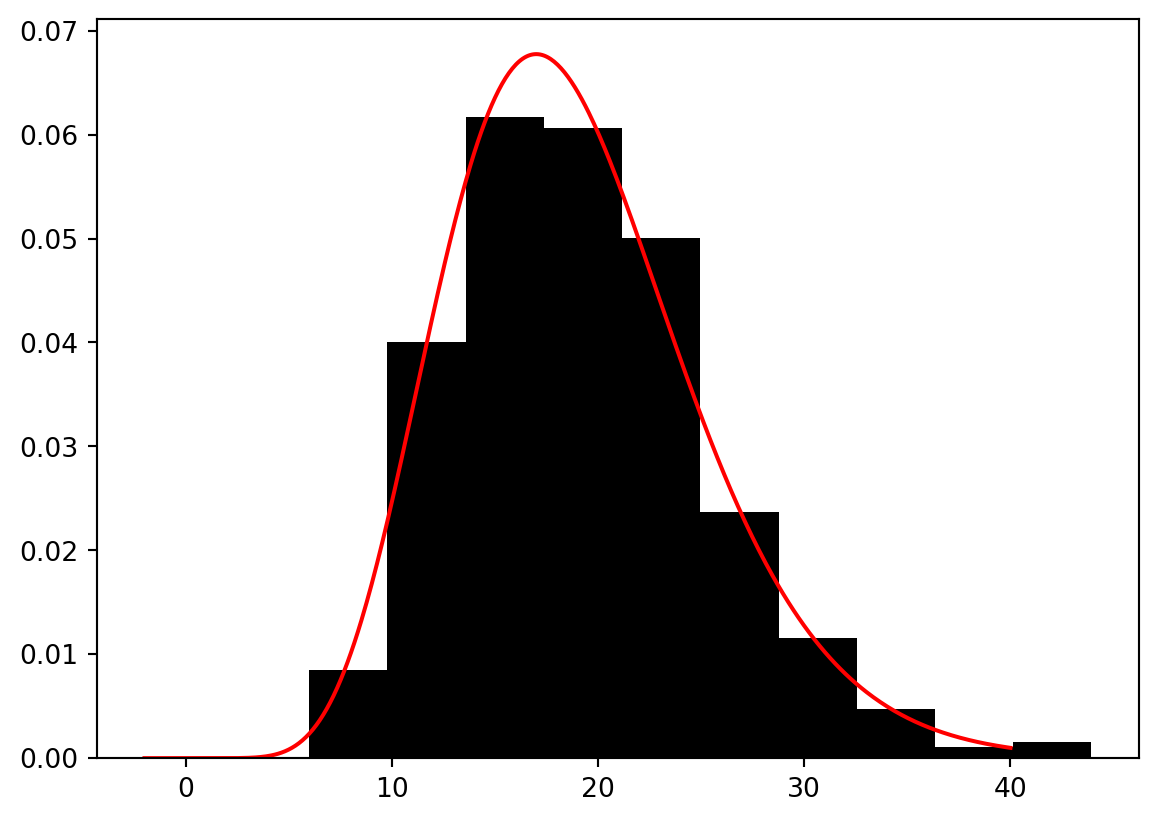
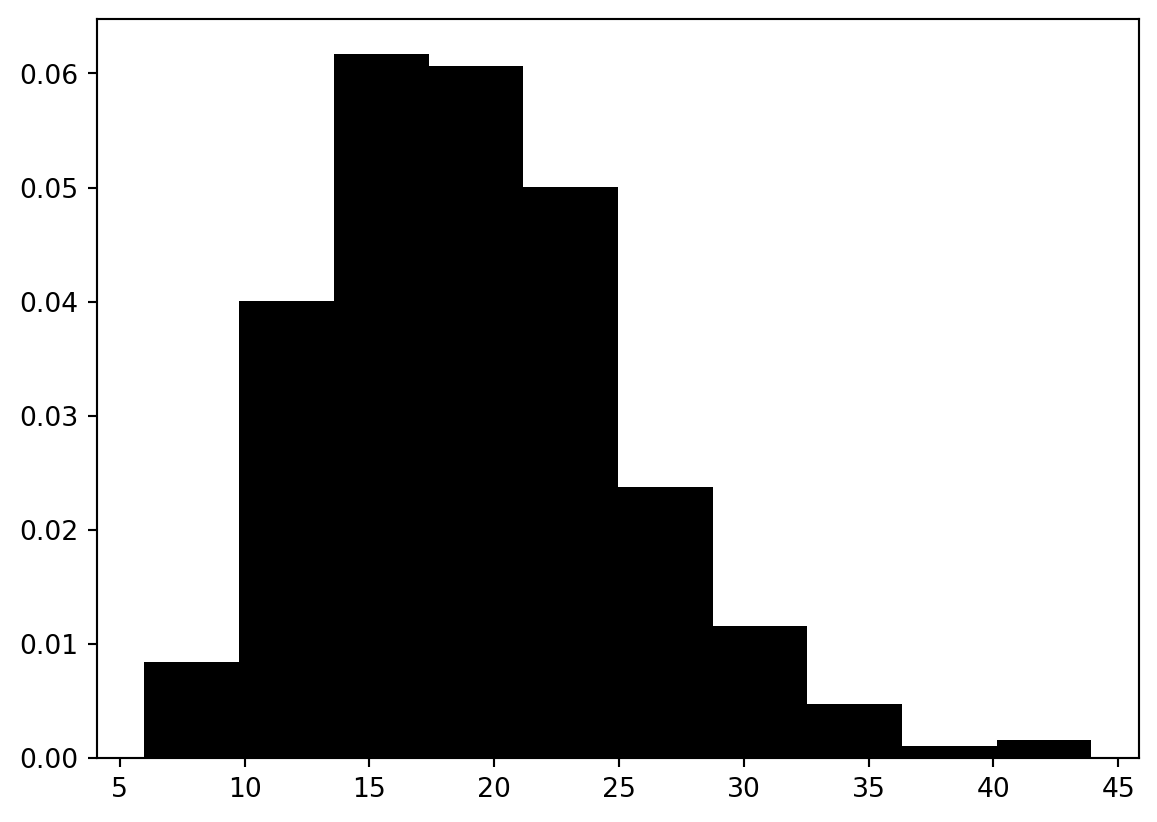
hw8 수정

diff --git a/docs/posts/hw8/hw8.html b/docs/posts/hw8/hw8.html
@@ -195,7 +195,7 @@ pre > code.sourceCode > span > a:first-child::before { text-decoration: underlin
 <section id="adp-표본점수" class="level1">
 <h1>ADP 표본점수</h1>
 <p>2022년에 실시 된 ADP 실기 시험의 통계파트 표준점수는 평균이 30, 표준편차가 5인 정규분포를 따른다고 한다. 1) ADP 실기 시험의 통계파트 표준점수의 밀도함수를 그려보세요.</p>
-<div id="2329b195" class="cell" data-execution_count="1">
+<div id="3515b512" class="cell" data-execution_count="1">
 <div class="sourceCode cell-code" id="cb1"><pre class="sourceCode python code-with-copy"><code class="sourceCode python"><span id="cb1-1"><a href="#cb1-1" aria-hidden="true" tabindex="-1"></a><span class="im">import</span> numpy <span class="im">as</span> np</span>
 <span id="cb1-2"><a href="#cb1-2" aria-hidden="true" tabindex="-1"></a><span class="im">from</span> scipy.stats <span class="im">import</span> norm</span>
 <span id="cb1-3"><a href="#cb1-3" aria-hidden="true" tabindex="-1"></a><span class="im">import</span> matplotlib.pyplot <span class="im">as</span> plt</span>
@@ -214,9 +214,9 @@ pre > code.sourceCode > span > a:first-child::before { text-decoration: underlin
 <ol start="2" type="1">
 <li>ADP 수험생을 임의로 1명을 선택하여 통계 점수를 조회했을때 45점 보다 높은 점수를 받았을 확률을 구하세요.</li>
 </ol>
-<div id="7f933099" class="cell" data-execution_count="2">
+<div id="15497b11" class="cell" data-execution_count="2">
 <div class="sourceCode cell-code" id="cb2"><pre class="sourceCode python code-with-copy"><code class="sourceCode python"><span id="cb2-1"><a href="#cb2-1" aria-hidden="true" tabindex="-1"></a><span class="dv">1</span> <span class="op">-</span> norm.cdf(<span class="dv">45</span>, <span class="dv">30</span>, <span class="dv">5</span>)</span></code><button title="Copy to Clipboard" class="code-copy-button"><i class="bi"></i></button></pre></div>
-<div class="cell-output cell-output-display" data-execution_count="18">
+<div class="cell-output cell-output-display" data-execution_count="2">
 <pre><code>np.float64(0.0013498980316301035)</code></pre>
 </div>
 </div>
@@ -224,9 +224,9 @@ pre > code.sourceCode > span > a:first-child::before { text-decoration: underlin
 <ol start="3" type="1">
 <li>슬통이는 상위 10%에 해당하는 점수를 얻었다고 한다면, 슬통이의 점수는 얼마인지 계산해보세요.</li>
 </ol>
-<div id="0004566b" class="cell" data-execution_count="3">
+<div id="8be3c6d6" class="cell" data-execution_count="3">
 <div class="sourceCode cell-code" id="cb4"><pre class="sourceCode python code-with-copy"><code class="sourceCode python"><span id="cb4-1"><a href="#cb4-1" aria-hidden="true" tabindex="-1"></a>norm.ppf(<span class="fl">0.9</span>, <span class="dv">30</span>, <span class="dv">5</span>)</span></code><button title="Copy to Clipboard" class="code-copy-button"><i class="bi"></i></button></pre></div>
-<div class="cell-output cell-output-display" data-execution_count="19">
+<div class="cell-output cell-output-display" data-execution_count="3">
 <pre><code>np.float64(36.407757827723)</code></pre>
 </div>
 </div>
@@ -234,7 +234,7 @@ pre > code.sourceCode > span > a:first-child::before { text-decoration: underlin
 <ol start="4" type="1">
 <li>슬기로운 통계생활의 해당 회차 수강생은 16명이었다고 한다. 16명의 통계 파트 점수를 평균내었을 때, 이 평균값이 따르는 분포의 확률밀도 함수를 1번의 그래프와 겹쳐 그려보세요.</li>
 </ol>
-<div id="766ef283" class="cell" data-execution_count="4">
+<div id="b1ad7a64" class="cell" data-execution_count="4">
 <div class="sourceCode cell-code" id="cb6"><pre class="sourceCode python code-with-copy"><code class="sourceCode python"><span id="cb6-1"><a href="#cb6-1" aria-hidden="true" tabindex="-1"></a>x <span class="op">=</span> np.linspace(<span class="dv">15</span>, <span class="dv">45</span>, <span class="dv">500</span>)</span>
 <span id="cb6-2"><a href="#cb6-2" aria-hidden="true" tabindex="-1"></a>y <span class="op">=</span> norm.pdf(x, loc<span class="op">=</span><span class="dv">30</span>, scale<span class="op">=</span><span class="dv">5</span>)</span>
 <span id="cb6-3"><a href="#cb6-3" aria-hidden="true" tabindex="-1"></a>plt.plot(x, y) </span>
@@ -252,9 +252,9 @@ pre > code.sourceCode > span > a:first-child::before { text-decoration: underlin
 <ol start="5" type="1">
 <li>슬기로운 통계생활 ADP 반 수강생들의 통계점수를 평균내었다고 할 때, 이 값이 38점보다 높게 나올 확률을 구하세요.</li>
 </ol>
-<div id="37366679" class="cell" data-execution_count="5">
+<div id="3b895eb0" class="cell" data-execution_count="5">
 <div class="sourceCode cell-code" id="cb7"><pre class="sourceCode python code-with-copy"><code class="sourceCode python"><span id="cb7-1"><a href="#cb7-1" aria-hidden="true" tabindex="-1"></a><span class="dv">1</span><span class="op">-</span>norm.cdf(<span class="dv">38</span>, loc<span class="op">=</span><span class="dv">30</span>, scale<span class="op">=</span><span class="dv">5</span><span class="op">/</span>np.sqrt(<span class="dv">16</span>))</span></code><button title="Copy to Clipboard" class="code-copy-button"><i class="bi"></i></button></pre></div>
-<div class="cell-output cell-output-display" data-execution_count="21">
+<div class="cell-output cell-output-display" data-execution_count="5">
 <pre><code>np.float64(7.76885222819601e-11)</code></pre>
 </div>
 </div>
@@ -266,22 +266,27 @@ pre > code.sourceCode > span > a:first-child::before { text-decoration: underlin
 <ol type="1">
 <li>다잡아 키트가 코로나 바이러스에 걸린 사람을 양성으로 잡아낼 확률을 계산하세요.</li>
 </ol>
-<div id="ddb7b09c" class="cell" data-execution_count="6">
+<div id="9d71c4e4" class="cell" data-execution_count="6">
 <div class="sourceCode cell-code" id="cb9"><pre class="sourceCode python code-with-copy"><code class="sourceCode python"><span id="cb9-1"><a href="#cb9-1" aria-hidden="true" tabindex="-1"></a><span class="dv">370</span><span class="op">/</span><span class="dv">385</span></span></code><button title="Copy to Clipboard" class="code-copy-button"><i class="bi"></i></button></pre></div>
-<div class="cell-output cell-output-display" data-execution_count="22">
+<div class="cell-output cell-output-display" data-execution_count="6">
 <pre><code>0.961038961038961</code></pre>
 </div>
 </div>
 <ol start="2" type="1">
 <li>슬통 회사에서 다잡아 키트를 사용해 양성으로 나온 사람이 실제로는 코로나 바이러스에 걸려있을 확률을 97%라며, 키트의 우수성을 주장했다. 이 주장이 옳지 않은 이유를 서술하세요.</li>
 </ol>
-<p>표본으로 뽑힌 집단의 확률과 슬통회사에서 주장한 확률이 다르다.</p>
+<div id="a0e77f67" class="cell" data-execution_count="7">
+<div class="sourceCode cell-code" id="cb11"><pre class="sourceCode python code-with-copy"><code class="sourceCode python"><span id="cb11-1"><a href="#cb11-1" aria-hidden="true" tabindex="-1"></a><span class="dv">370</span><span class="op">/</span><span class="dv">380</span></span></code><button title="Copy to Clipboard" class="code-copy-button"><i class="bi"></i></button></pre></div>
+<div class="cell-output cell-output-display" data-execution_count="7">
+<pre><code>0.9736842105263158</code></pre>
+</div>
+</div>
 <ol start="3" type="1">
 <li>Covid‑19 발병률을 사용하여,키트의 결과값이 양성으로 나온 사람이 실제로 코로나 바이러스에 걸려있을 확률을 구하세요.</li>
 </ol>
-<div id="3d2eb66e" class="cell" data-execution_count="7">
-<div class="sourceCode cell-code" id="cb11"><pre class="sourceCode python code-with-copy"><code class="sourceCode python"><span id="cb11-1"><a href="#cb11-1" aria-hidden="true" tabindex="-1"></a>(<span class="fl">0.01</span><span class="op">*</span> (<span class="dv">370</span><span class="op">/</span><span class="dv">385</span>)) <span class="op">/</span> (<span class="fl">0.01</span> <span class="op">*</span> (<span class="dv">370</span><span class="op">/</span><span class="dv">385</span>) <span class="op">+</span> <span class="fl">0.99</span> <span class="op">*</span> (<span class="dv">10</span> <span class="op">/</span> <span class="dv">700</span>))</span></code><button title="Copy to Clipboard" class="code-copy-button"><i class="bi"></i></button></pre></div>
-<div class="cell-output cell-output-display" data-execution_count="23">
+<div id="de30e2db" class="cell" data-execution_count="8">
+<div class="sourceCode cell-code" id="cb13"><pre class="sourceCode python code-with-copy"><code class="sourceCode python"><span id="cb13-1"><a href="#cb13-1" aria-hidden="true" tabindex="-1"></a>(<span class="fl">0.01</span><span class="op">*</span> (<span class="dv">370</span><span class="op">/</span><span class="dv">385</span>)) <span class="op">/</span> (<span class="fl">0.01</span> <span class="op">*</span> (<span class="dv">370</span><span class="op">/</span><span class="dv">385</span>) <span class="op">+</span> <span class="fl">0.99</span> <span class="op">*</span> (<span class="dv">10</span> <span class="op">/</span> <span class="dv">700</span>))</span></code><button title="Copy to Clipboard" class="code-copy-button"><i class="bi"></i></button></pre></div>
+<div class="cell-output cell-output-display" data-execution_count="8">
 <pre><code>0.4045926735921268</code></pre>
 </div>
 </div>
@@ -291,17 +296,17 @@ pre > code.sourceCode > span > a:first-child::before { text-decoration: underlin
 <h1>카이제곱분포와 표본분산</h1>
 <p>자유도가 𝑘인 카이제곱분포를 따르는 확률변수 𝑋 를 𝑋 ∼ (𝜒^2)*(𝑘)과 같이 나타내고, 이 확률변수의 확률밀도함수는 다음과 같습니다.</p>
 <p>다음의 물음에 답하세요. 1) 자유도가 4인 카이제곱분포의 확률밀도함수를 그려보세요.</p>
-<div id="ae4bfa26" class="cell" data-execution_count="8">
-<div class="sourceCode cell-code" id="cb13"><pre class="sourceCode python code-with-copy"><code class="sourceCode python"><span id="cb13-1"><a href="#cb13-1" aria-hidden="true" tabindex="-1"></a><span class="im">from</span> scipy.stats <span class="im">import</span> chi2</span>
-<span id="cb13-2"><a href="#cb13-2" aria-hidden="true" tabindex="-1"></a><span class="im">import</span> matplotlib.pyplot <span class="im">as</span> plt</span>
-<span id="cb13-3"><a href="#cb13-3" aria-hidden="true" tabindex="-1"></a><span class="im">import</span> numpy <span class="im">as</span> np</span>
-<span id="cb13-4"><a href="#cb13-4" aria-hidden="true" tabindex="-1"></a>k<span class="op">=</span>np.linspace(<span class="op">-</span><span class="dv">2</span>, <span class="dv">40</span>, <span class="dv">500</span>)</span>
-<span id="cb13-5"><a href="#cb13-5" aria-hidden="true" tabindex="-1"></a>y<span class="op">=</span>chi2.pdf(k, df<span class="op">=</span><span class="dv">4</span>)</span>
-<span id="cb13-6"><a href="#cb13-6" aria-hidden="true" tabindex="-1"></a>plt.plot(k, y, color<span class="op">=</span> <span class="st">"black"</span>)</span></code><button title="Copy to Clipboard" class="code-copy-button"><i class="bi"></i></button></pre></div>
+<div id="05ce24cd" class="cell" data-execution_count="9">
+<div class="sourceCode cell-code" id="cb15"><pre class="sourceCode python code-with-copy"><code class="sourceCode python"><span id="cb15-1"><a href="#cb15-1" aria-hidden="true" tabindex="-1"></a><span class="im">from</span> scipy.stats <span class="im">import</span> chi2</span>
+<span id="cb15-2"><a href="#cb15-2" aria-hidden="true" tabindex="-1"></a><span class="im">import</span> matplotlib.pyplot <span class="im">as</span> plt</span>
+<span id="cb15-3"><a href="#cb15-3" aria-hidden="true" tabindex="-1"></a><span class="im">import</span> numpy <span class="im">as</span> np</span>
+<span id="cb15-4"><a href="#cb15-4" aria-hidden="true" tabindex="-1"></a>k<span class="op">=</span>np.linspace(<span class="op">-</span><span class="dv">2</span>, <span class="dv">40</span>, <span class="dv">500</span>)</span>
+<span id="cb15-5"><a href="#cb15-5" aria-hidden="true" tabindex="-1"></a>y<span class="op">=</span>chi2.pdf(k, df<span class="op">=</span><span class="dv">4</span>)</span>
+<span id="cb15-6"><a href="#cb15-6" aria-hidden="true" tabindex="-1"></a>plt.plot(k, y, color<span class="op">=</span> <span class="st">"black"</span>)</span></code><button title="Copy to Clipboard" class="code-copy-button"><i class="bi"></i></button></pre></div>
 <div class="cell-output cell-output-display">
 <div>
 <figure class="figure">
-<p><img src="hw8_files/figure-html/cell-9-output-1.png" width="587" height="411" class="figure-img"></p>
+<p><img src="hw8_files/figure-html/cell-10-output-1.png" width="587" height="411" class="figure-img"></p>
 </figure>
 </div>
 </div>
@@ -309,26 +314,26 @@ pre > code.sourceCode > span > a:first-child::before { text-decoration: underlin
 <ol start="2" type="1">
 <li>다음의 확률을 구해보세요. 𝑃 (3 ≤ 𝑋 ≤ 5)</li>
 </ol>
-<div id="716f1e83" class="cell" data-execution_count="9">
-<div class="sourceCode cell-code" id="cb14"><pre class="sourceCode python code-with-copy"><code class="sourceCode python"><span id="cb14-1"><a href="#cb14-1" aria-hidden="true" tabindex="-1"></a>chi2.cdf(<span class="dv">5</span>, <span class="dv">4</span>) <span class="op">-</span> chi2.cdf(<span class="dv">3</span>, <span class="dv">4</span>)</span></code><button title="Copy to Clipboard" class="code-copy-button"><i class="bi"></i></button></pre></div>
-<div class="cell-output cell-output-display" data-execution_count="25">
+<div id="e89ae2a6" class="cell" data-execution_count="10">
+<div class="sourceCode cell-code" id="cb16"><pre class="sourceCode python code-with-copy"><code class="sourceCode python"><span id="cb16-1"><a href="#cb16-1" aria-hidden="true" tabindex="-1"></a>chi2.cdf(<span class="dv">5</span>, <span class="dv">4</span>) <span class="op">-</span> chi2.cdf(<span class="dv">3</span>, <span class="dv">4</span>)</span></code><button title="Copy to Clipboard" class="code-copy-button"><i class="bi"></i></button></pre></div>
+<div class="cell-output cell-output-display" data-execution_count="10">
 <pre><code>np.float64(0.27052790518742903)</code></pre>
 </div>
 </div>
 <ol start="3" type="1">
 <li>자유도가 4인 카이제곱분포에서 크기가 1000인 표본을 뽑은 후, 히스토그램을 그려보세요.</li>
 </ol>
-<div id="33adcfd7" class="cell" data-execution_count="10">
-<div class="sourceCode cell-code" id="cb16"><pre class="sourceCode python code-with-copy"><code class="sourceCode python"><span id="cb16-1"><a href="#cb16-1" aria-hidden="true" tabindex="-1"></a><span class="im">import</span> numpy <span class="im">as</span> np</span>
-<span id="cb16-2"><a href="#cb16-2" aria-hidden="true" tabindex="-1"></a>np.random.seed(<span class="dv">2024</span>)</span>
-<span id="cb16-3"><a href="#cb16-3" aria-hidden="true" tabindex="-1"></a><span class="co">#chi2.rvs(df, loc=0, scale=1, size=1, random_state=None)</span></span>
-<span id="cb16-4"><a href="#cb16-4" aria-hidden="true" tabindex="-1"></a>x <span class="op">=</span> chi2.rvs(<span class="dv">4</span>, loc<span class="op">=</span><span class="dv">0</span>, scale<span class="op">=</span><span class="dv">1</span>, size<span class="op">=</span><span class="dv">1000</span>)</span>
-<span id="cb16-5"><a href="#cb16-5" aria-hidden="true" tabindex="-1"></a>plt.hist(x, color <span class="op">=</span> <span class="st">"black"</span>,histtype<span class="op">=</span><span class="st">'bar'</span>)</span>
-<span id="cb16-6"><a href="#cb16-6" aria-hidden="true" tabindex="-1"></a>plt.figure()</span></code><button title="Copy to Clipboard" class="code-copy-button"><i class="bi"></i></button></pre></div>
+<div id="b675f9d3" class="cell" data-execution_count="11">
+<div class="sourceCode cell-code" id="cb18"><pre class="sourceCode python code-with-copy"><code class="sourceCode python"><span id="cb18-1"><a href="#cb18-1" aria-hidden="true" tabindex="-1"></a><span class="im">import</span> numpy <span class="im">as</span> np</span>
+<span id="cb18-2"><a href="#cb18-2" aria-hidden="true" tabindex="-1"></a>np.random.seed(<span class="dv">2024</span>)</span>
+<span id="cb18-3"><a href="#cb18-3" aria-hidden="true" tabindex="-1"></a><span class="co">#chi2.rvs(df, loc=0, scale=1, size=1, random_state=None)</span></span>
+<span id="cb18-4"><a href="#cb18-4" aria-hidden="true" tabindex="-1"></a>x <span class="op">=</span> chi2.rvs(<span class="dv">4</span>, loc<span class="op">=</span><span class="dv">0</span>, scale<span class="op">=</span><span class="dv">1</span>, size<span class="op">=</span><span class="dv">1000</span>)</span>
+<span id="cb18-5"><a href="#cb18-5" aria-hidden="true" tabindex="-1"></a>plt.hist(x, color <span class="op">=</span> <span class="st">"black"</span>,histtype<span class="op">=</span><span class="st">'bar'</span>)</span>
+<span id="cb18-6"><a href="#cb18-6" aria-hidden="true" tabindex="-1"></a>plt.figure()</span></code><button title="Copy to Clipboard" class="code-copy-button"><i class="bi"></i></button></pre></div>
 <div class="cell-output cell-output-display">
 <div>
 <figure class="figure">
-<p><img src="hw8_files/figure-html/cell-11-output-1.png" width="586" height="411" class="figure-img"></p>
+<p><img src="hw8_files/figure-html/cell-12-output-1.png" width="586" height="411" class="figure-img"></p>
 </figure>
 </div>
 </div>
@@ -339,11 +344,11 @@ pre > code.sourceCode > span > a:first-child::before { text-decoration: underlin
 <ol start="4" type="1">
 <li>자유도가 4인 카이제곱분포를 따르는 확률변수에서 나올 수 있는 값 중 상위 5%에 해당하는 값은 얼마인지 계산해보세요.</li>
 </ol>
-<div id="c1ac2596" class="cell" data-execution_count="11">
-<div class="sourceCode cell-code" id="cb18"><pre class="sourceCode python code-with-copy"><code class="sourceCode python"><span id="cb18-1"><a href="#cb18-1" aria-hidden="true" tabindex="-1"></a><span class="im">import</span> scipy.stats <span class="im">as</span> stats</span>
-<span id="cb18-2"><a href="#cb18-2" aria-hidden="true" tabindex="-1"></a>data <span class="op">=</span>stats.chi2(<span class="dv">4</span>, loc<span class="op">=</span><span class="dv">0</span>, scale<span class="op">=</span><span class="dv">1</span>)</span>
-<span id="cb18-3"><a href="#cb18-3" aria-hidden="true" tabindex="-1"></a>data.ppf(<span class="fl">0.95</span>) </span></code><button title="Copy to Clipboard" class="code-copy-button"><i class="bi"></i></button></pre></div>
-<div class="cell-output cell-output-display" data-execution_count="27">
+<div id="fa0a9e44" class="cell" data-execution_count="12">
+<div class="sourceCode cell-code" id="cb20"><pre class="sourceCode python code-with-copy"><code class="sourceCode python"><span id="cb20-1"><a href="#cb20-1" aria-hidden="true" tabindex="-1"></a><span class="im">import</span> scipy.stats <span class="im">as</span> stats</span>
+<span id="cb20-2"><a href="#cb20-2" aria-hidden="true" tabindex="-1"></a>data <span class="op">=</span>stats.chi2(<span class="dv">4</span>, loc<span class="op">=</span><span class="dv">0</span>, scale<span class="op">=</span><span class="dv">1</span>)</span>
+<span id="cb20-3"><a href="#cb20-3" aria-hidden="true" tabindex="-1"></a>data.ppf(<span class="fl">0.95</span>) </span></code><button title="Copy to Clipboard" class="code-copy-button"><i class="bi"></i></button></pre></div>
+<div class="cell-output cell-output-display" data-execution_count="12">
 <pre><code>np.float64(9.487729036781154)</code></pre>
 </div>
 </div>
@@ -351,9 +356,9 @@ pre > code.sourceCode > span > a:first-child::before { text-decoration: underlin
 <ol start="5" type="1">
 <li>3번에서 뽑힌 표본값들 중 상위 5%에 위치한 표본의 값은 얼마인가요?</li>
 </ol>
-<div id="aad885bb" class="cell" data-execution_count="12">
-<div class="sourceCode cell-code" id="cb20"><pre class="sourceCode python code-with-copy"><code class="sourceCode python"><span id="cb20-1"><a href="#cb20-1" aria-hidden="true" tabindex="-1"></a>np.percentile(x, <span class="dv">95</span>)</span></code><button title="Copy to Clipboard" class="code-copy-button"><i class="bi"></i></button></pre></div>
-<div class="cell-output cell-output-display" data-execution_count="28">
+<div id="a0160016" class="cell" data-execution_count="13">
+<div class="sourceCode cell-code" id="cb22"><pre class="sourceCode python code-with-copy"><code class="sourceCode python"><span id="cb22-1"><a href="#cb22-1" aria-hidden="true" tabindex="-1"></a>np.percentile(x, <span class="dv">95</span>)</span></code><button title="Copy to Clipboard" class="code-copy-button"><i class="bi"></i></button></pre></div>
+<div class="cell-output cell-output-display" data-execution_count="13">
 <pre><code>np.float64(10.006310615752485)</code></pre>
 </div>
 </div>
@@ -361,29 +366,29 @@ pre > code.sourceCode > span > a:first-child::before { text-decoration: underlin
 <ol start="6" type="1">
 <li>평균이 3, 표준편차가 2인 정규분포를 따르는 확률변수에서 크기가 20인 표본, 𝑥1, …, 𝑥20,을 뽑은 후 표본분산을 계산한 것을 𝑠1^2이라 생각해보죠. 다음을 수행해보세요!</li>
 </ol>
-<div id="1fb388bb" class="cell" data-execution_count="13">
-<div class="sourceCode cell-code" id="cb22"><pre class="sourceCode python code-with-copy"><code class="sourceCode python"><span id="cb22-1"><a href="#cb22-1" aria-hidden="true" tabindex="-1"></a><span class="im">from</span> scipy.stats <span class="im">import</span> norm</span>
-<span id="cb22-2"><a href="#cb22-2" aria-hidden="true" tabindex="-1"></a></span>
-<span id="cb22-3"><a href="#cb22-3" aria-hidden="true" tabindex="-1"></a>np.random.seed(<span class="dv">2024</span>)</span>
-<span id="cb22-4"><a href="#cb22-4" aria-hidden="true" tabindex="-1"></a>x <span class="op">=</span> norm.rvs(<span class="dv">3</span>, <span class="dv">2</span>, size<span class="op">=</span><span class="dv">20</span>)</span></code><button title="Copy to Clipboard" class="code-copy-button"><i class="bi"></i></button></pre></div>
+<div id="fec824b6" class="cell" data-execution_count="14">
+<div class="sourceCode cell-code" id="cb24"><pre class="sourceCode python code-with-copy"><code class="sourceCode python"><span id="cb24-1"><a href="#cb24-1" aria-hidden="true" tabindex="-1"></a><span class="im">from</span> scipy.stats <span class="im">import</span> norm</span>
+<span id="cb24-2"><a href="#cb24-2" aria-hidden="true" tabindex="-1"></a></span>
+<span id="cb24-3"><a href="#cb24-3" aria-hidden="true" tabindex="-1"></a>np.random.seed(<span class="dv">2024</span>)</span>
+<span id="cb24-4"><a href="#cb24-4" aria-hidden="true" tabindex="-1"></a>x <span class="op">=</span> norm.rvs(<span class="dv">3</span>, <span class="dv">2</span>, size<span class="op">=</span><span class="dv">20</span>)</span></code><button title="Copy to Clipboard" class="code-copy-button"><i class="bi"></i></button></pre></div>
 </div>
 <p>• 같은 방법으로 500개의 𝑠^2 들, 𝑠(1)^2, 𝑠(2)^2, …, 𝑠(500)^2 발생시킵니다.</p>
-<div id="01fa6235" class="cell" data-execution_count="14">
-<div class="sourceCode cell-code" id="cb23"><pre class="sourceCode python code-with-copy"><code class="sourceCode python"><span id="cb23-1"><a href="#cb23-1" aria-hidden="true" tabindex="-1"></a>samples<span class="op">=</span>[]</span>
-<span id="cb23-2"><a href="#cb23-2" aria-hidden="true" tabindex="-1"></a></span>
-<span id="cb23-3"><a href="#cb23-3" aria-hidden="true" tabindex="-1"></a><span class="cf">for</span> i <span class="kw">in</span> <span class="bu">range</span>(<span class="dv">500</span>):</span>
-<span id="cb23-4"><a href="#cb23-4" aria-hidden="true" tabindex="-1"></a>    x <span class="op">=</span> norm.rvs(<span class="dv">3</span>, <span class="dv">2</span>, size<span class="op">=</span><span class="dv">20</span>)</span>
-<span id="cb23-5"><a href="#cb23-5" aria-hidden="true" tabindex="-1"></a>    samples.append(np.var(x, ddof<span class="op">=</span><span class="dv">1</span>))</span></code><button title="Copy to Clipboard" class="code-copy-button"><i class="bi"></i></button></pre></div>
+<div id="d635acfb" class="cell" data-execution_count="15">
+<div class="sourceCode cell-code" id="cb25"><pre class="sourceCode python code-with-copy"><code class="sourceCode python"><span id="cb25-1"><a href="#cb25-1" aria-hidden="true" tabindex="-1"></a>samples<span class="op">=</span>[]</span>
+<span id="cb25-2"><a href="#cb25-2" aria-hidden="true" tabindex="-1"></a></span>
+<span id="cb25-3"><a href="#cb25-3" aria-hidden="true" tabindex="-1"></a><span class="cf">for</span> i <span class="kw">in</span> <span class="bu">range</span>(<span class="dv">500</span>):</span>
+<span id="cb25-4"><a href="#cb25-4" aria-hidden="true" tabindex="-1"></a>    x <span class="op">=</span> norm.rvs(<span class="dv">3</span>, <span class="dv">2</span>, size<span class="op">=</span><span class="dv">20</span>)</span>
+<span id="cb25-5"><a href="#cb25-5" aria-hidden="true" tabindex="-1"></a>    samples.append(np.var(x, ddof<span class="op">=</span><span class="dv">1</span>))</span></code><button title="Copy to Clipboard" class="code-copy-button"><i class="bi"></i></button></pre></div>
 </div>
 <p>• 발생한 500개의 𝑠^2 들 각각에 4.75를 곱하고, 그것들의 히스토그램을 그려보세요. (히스토그램을 그릴 때 probability = TRUE 옵션을 사용해서 그릴 것)</p>
-<div id="a26af5e3" class="cell" data-execution_count="15">
-<div class="sourceCode cell-code" id="cb24"><pre class="sourceCode python code-with-copy"><code class="sourceCode python"><span id="cb24-1"><a href="#cb24-1" aria-hidden="true" tabindex="-1"></a>new_samples <span class="op">=</span> np.array(samples) <span class="op">*</span> <span class="fl">4.75</span></span>
-<span id="cb24-2"><a href="#cb24-2" aria-hidden="true" tabindex="-1"></a>plt.hist(new_samples, density <span class="op">=</span> <span class="va">True</span>, color<span class="op">=</span><span class="st">"black"</span>)</span>
-<span id="cb24-3"><a href="#cb24-3" aria-hidden="true" tabindex="-1"></a>plt.figure()</span></code><button title="Copy to Clipboard" class="code-copy-button"><i class="bi"></i></button></pre></div>
+<div id="7d0fffda" class="cell" data-execution_count="16">
+<div class="sourceCode cell-code" id="cb26"><pre class="sourceCode python code-with-copy"><code class="sourceCode python"><span id="cb26-1"><a href="#cb26-1" aria-hidden="true" tabindex="-1"></a>new_samples <span class="op">=</span> np.array(samples) <span class="op">*</span> <span class="fl">4.75</span></span>
+<span id="cb26-2"><a href="#cb26-2" aria-hidden="true" tabindex="-1"></a>plt.hist(new_samples, density <span class="op">=</span> <span class="va">True</span>, color<span class="op">=</span><span class="st">"black"</span>)</span>
+<span id="cb26-3"><a href="#cb26-3" aria-hidden="true" tabindex="-1"></a>plt.figure()</span></code><button title="Copy to Clipboard" class="code-copy-button"><i class="bi"></i></button></pre></div>
 <div class="cell-output cell-output-display">
 <div>
 <figure class="figure">
-<p><img src="hw8_files/figure-html/cell-16-output-1.png" width="579" height="411" class="figure-img"></p>
+<p><img src="hw8_files/figure-html/cell-17-output-1.png" width="579" height="411" class="figure-img"></p>
 </figure>
 </div>
 </div>
@@ -392,16 +397,16 @@ pre > code.sourceCode > span > a:first-child::before { text-decoration: underlin
 </div>
 </div>
 <p>• 위에서 그린 히스토그램에 자유도가 19인 카이제곱분포 확률밀도함수를 겹쳐그려보세요.</p>
-<div id="2652dbf0" class="cell" data-execution_count="16">
-<div class="sourceCode cell-code" id="cb26"><pre class="sourceCode python code-with-copy"><code class="sourceCode python"><span id="cb26-1"><a href="#cb26-1" aria-hidden="true" tabindex="-1"></a>new_samples <span class="op">=</span> np.array(samples) <span class="op">*</span> <span class="fl">4.75</span></span>
-<span id="cb26-2"><a href="#cb26-2" aria-hidden="true" tabindex="-1"></a>plt.hist(new_samples, density <span class="op">=</span> <span class="va">True</span>, color<span class="op">=</span><span class="st">"black"</span>)</span>
-<span id="cb26-3"><a href="#cb26-3" aria-hidden="true" tabindex="-1"></a>k<span class="op">=</span>np.linspace(<span class="op">-</span><span class="dv">2</span>, <span class="dv">40</span>, <span class="dv">500</span>)</span>
-<span id="cb26-4"><a href="#cb26-4" aria-hidden="true" tabindex="-1"></a>y<span class="op">=</span>chi2.pdf(k, df<span class="op">=</span><span class="dv">19</span>)</span>
-<span id="cb26-5"><a href="#cb26-5" aria-hidden="true" tabindex="-1"></a>plt.plot(k, y, color<span class="op">=</span> <span class="st">"red"</span>)</span></code><button title="Copy to Clipboard" class="code-copy-button"><i class="bi"></i></button></pre></div>
+<div id="4af09318" class="cell" data-execution_count="17">
+<div class="sourceCode cell-code" id="cb28"><pre class="sourceCode python code-with-copy"><code class="sourceCode python"><span id="cb28-1"><a href="#cb28-1" aria-hidden="true" tabindex="-1"></a>new_samples <span class="op">=</span> np.array(samples) <span class="op">*</span> <span class="fl">4.75</span></span>
+<span id="cb28-2"><a href="#cb28-2" aria-hidden="true" tabindex="-1"></a>plt.hist(new_samples, density <span class="op">=</span> <span class="va">True</span>, color<span class="op">=</span><span class="st">"black"</span>)</span>
+<span id="cb28-3"><a href="#cb28-3" aria-hidden="true" tabindex="-1"></a>k<span class="op">=</span>np.linspace(<span class="op">-</span><span class="dv">2</span>, <span class="dv">40</span>, <span class="dv">500</span>)</span>
+<span id="cb28-4"><a href="#cb28-4" aria-hidden="true" tabindex="-1"></a>y<span class="op">=</span>chi2.pdf(k, df<span class="op">=</span><span class="dv">19</span>)</span>
+<span id="cb28-5"><a href="#cb28-5" aria-hidden="true" tabindex="-1"></a>plt.plot(k, y, color<span class="op">=</span> <span class="st">"red"</span>)</span></code><button title="Copy to Clipboard" class="code-copy-button"><i class="bi"></i></button></pre></div>
 <div class="cell-output cell-output-display">
 <div>
 <figure class="figure">
-<p><img src="hw8_files/figure-html/cell-17-output-1.png" width="579" height="411" class="figure-img"></p>
+<p><img src="hw8_files/figure-html/cell-18-output-1.png" width="579" height="411" class="figure-img"></p>
 </figure>
 </div>
 </div>

diff --git a/docs/blog.html b/docs/blog.html
@@ -380,7 +380,7 @@ bigdata
 </div>
 </a>
 </div>
-<div class="g-col-1" data-index="7" data-categories="bigdata" data-listing-file-modified-sort="1725295540439" data-listing-reading-time-sort="3" data-listing-word-count-sort="445">
+<div class="g-col-1" data-index="7" data-categories="bigdata" data-listing-file-modified-sort="1725296455887" data-listing-reading-time-sort="3" data-listing-word-count-sort="438">
 <a href="./posts/hw8/hw8.html" class="quarto-grid-link">
 <div class="quarto-grid-item card h-100 card-left">
 <p class="card-img-top"><img src="posts\hw8\hw8_files\figure-html\cell-2-output-1.png" style="height: 150px;"  class="thumbnail-image card-img"/></p>
